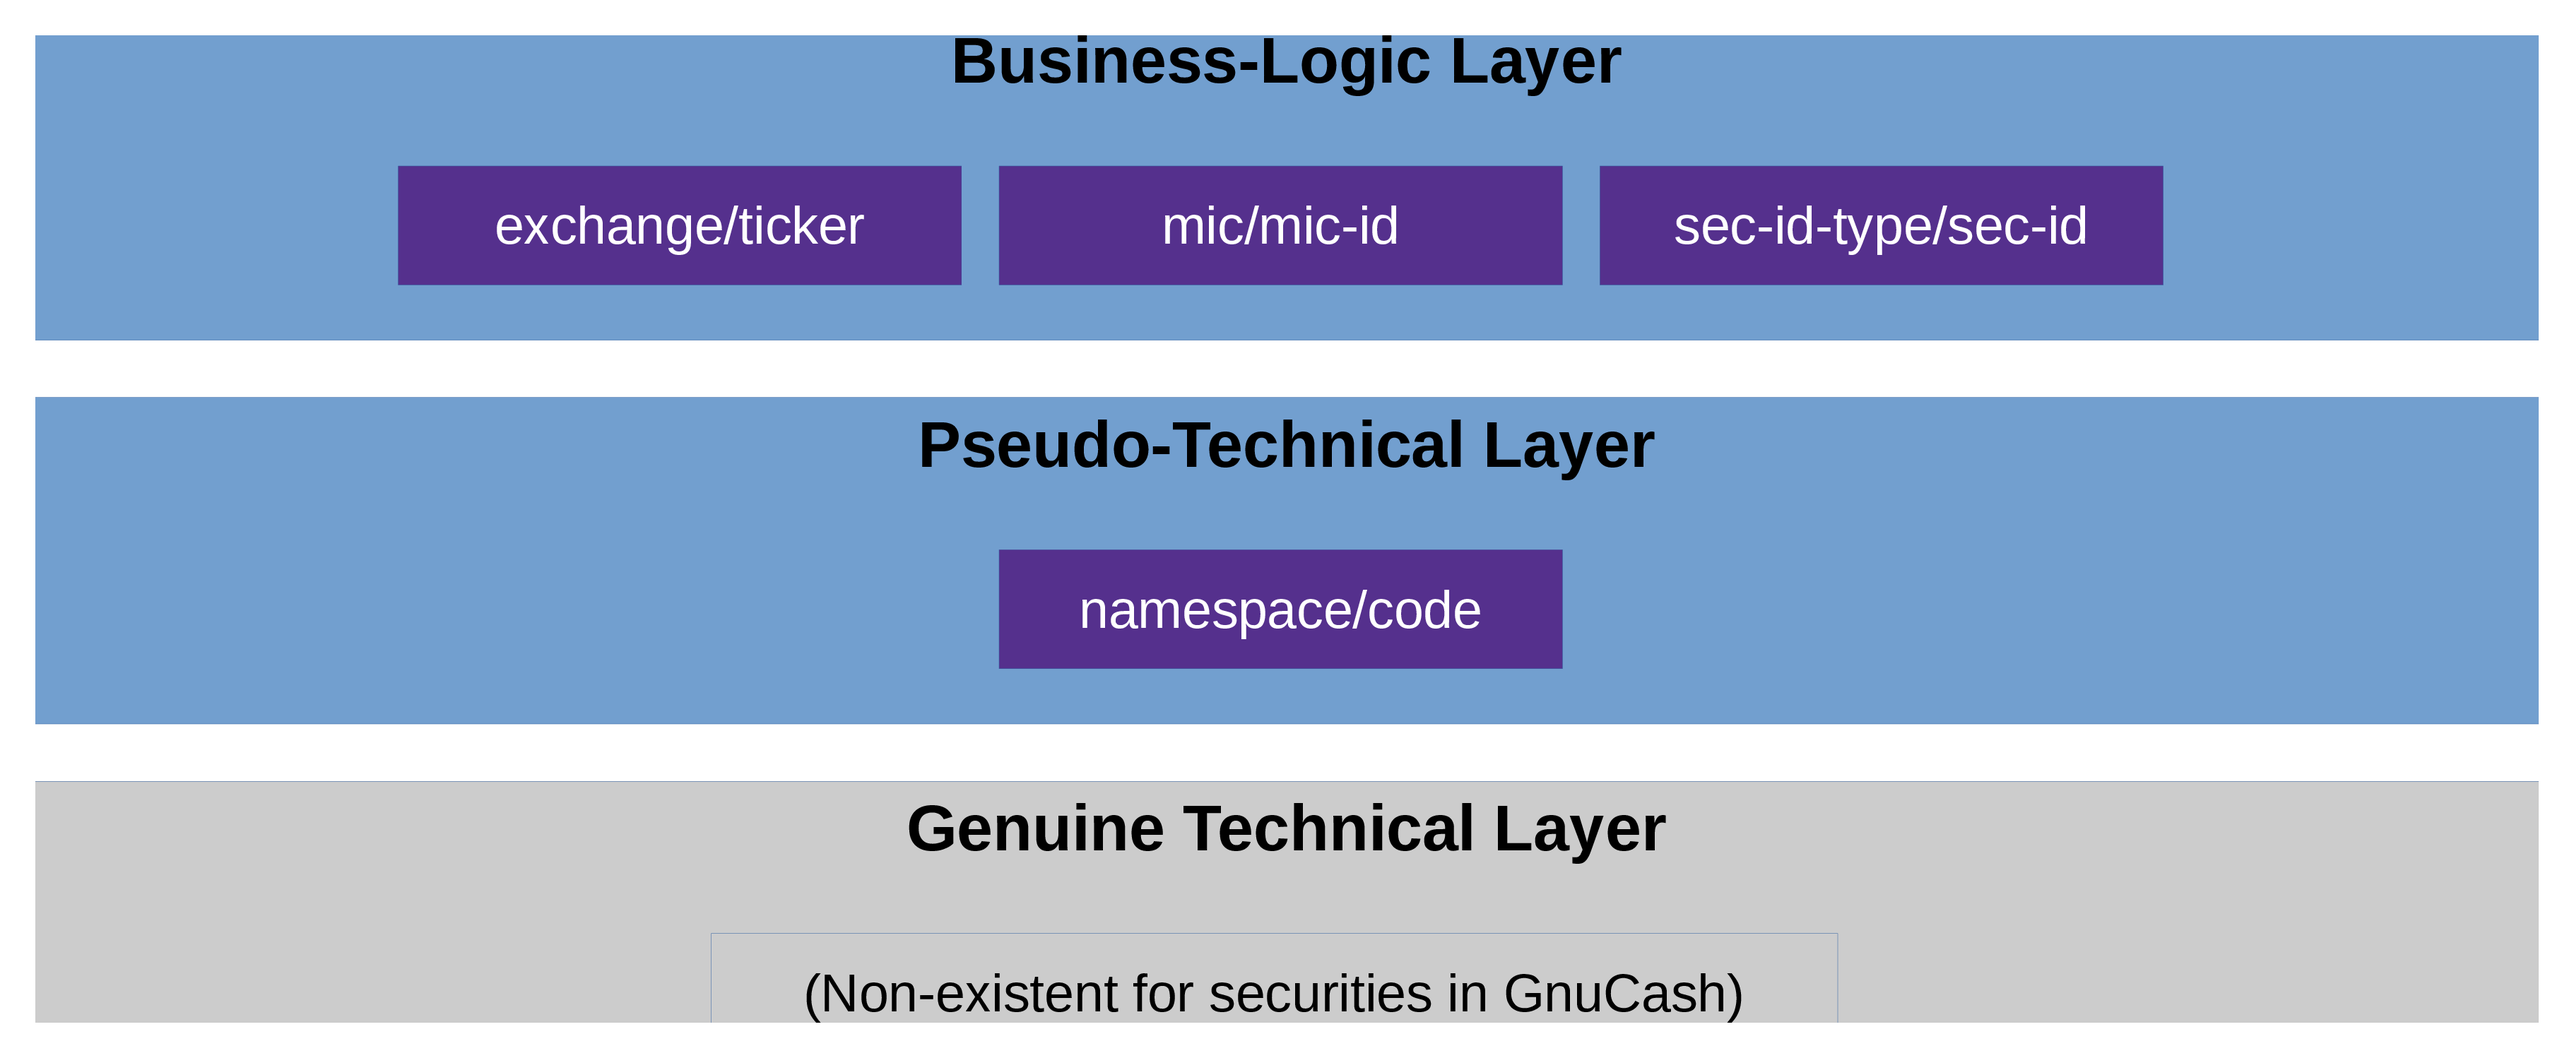
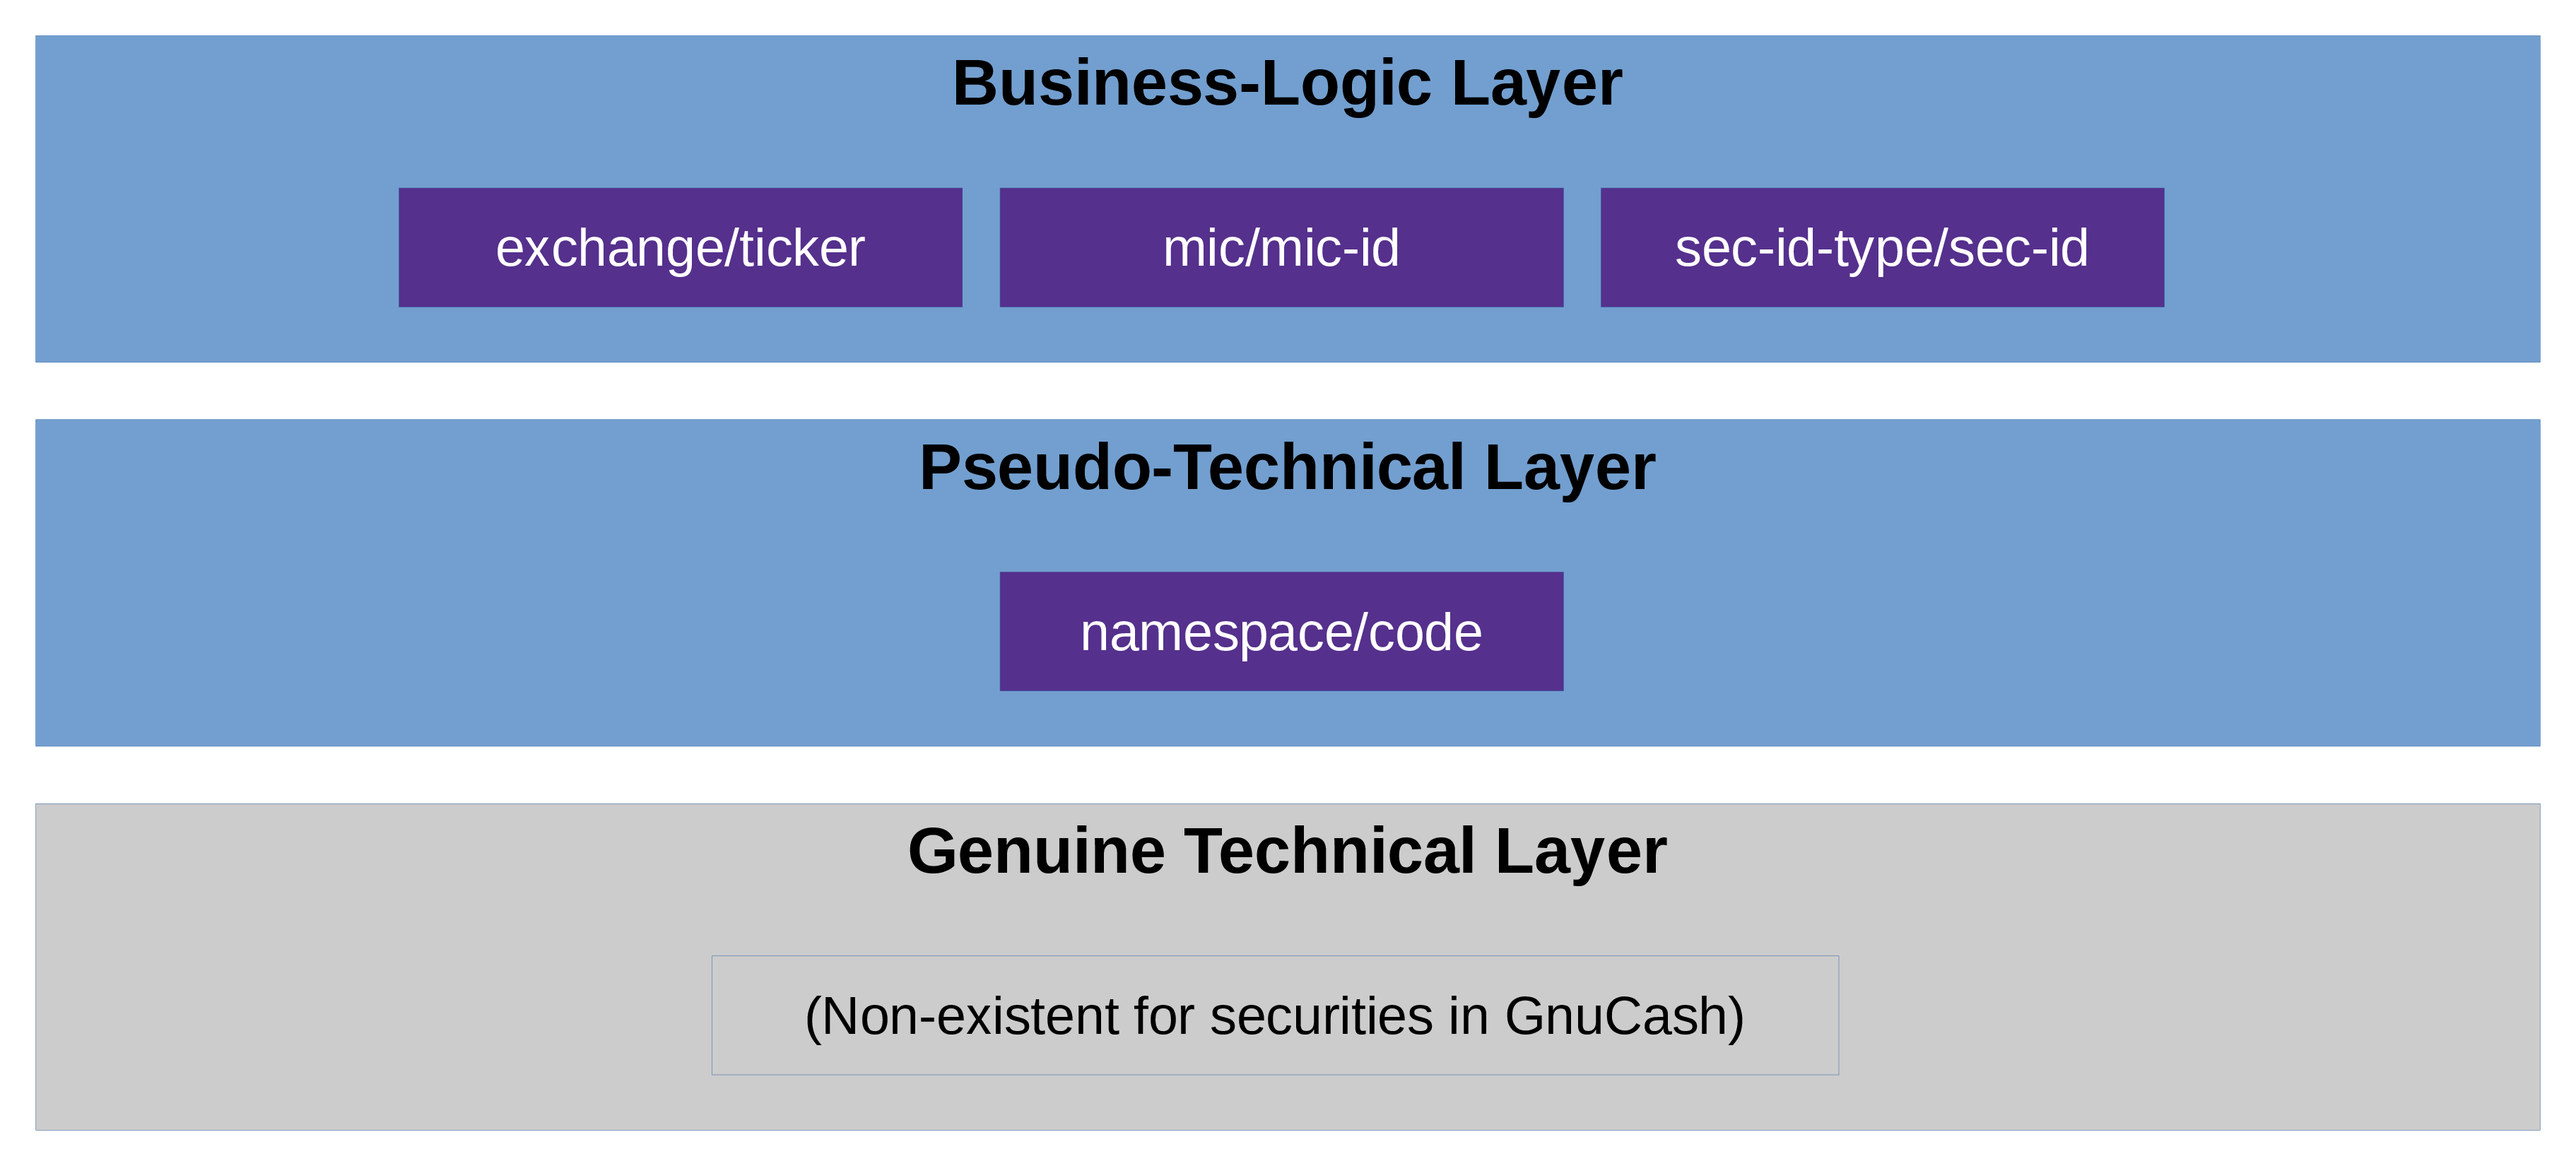
Update doc

diff --git a/doc/xsec/id-layers.md b/doc/xsec/id-layers.md
@@ -77,9 +77,10 @@ ID looks something like these:
 * `EURONEXT:SAP`
 * `ISIN:DE000BASF111AP`
 
-Just by glancing at these, you can see that they are essentially business-logic IDs 
-maskerading as technical ones; they do mean something (i.e., they have semantics) and 
-can thus very well be interpreted and understood.
+Just by glancing at these, you can see that 
+they are essentially business-logic IDs maskerading as technical ones;
+they both do mean something (i.e., they have semantics) and can thus very well be interpreted 
+and understood.
 
 It is important to understand this (non-)difference between technical and business-logic IDs in
 GnuCash 

diff --git a/doc/developer/select-securities.md b/doc/developer/select-securities.md
@@ -64,7 +64,7 @@ In short: *ignore its semantics*!
 ### Getting Security IDs
 
 In short: The lib does not provide methods which you can get
-*IDs* (yet). Instead, it provides methods which you can get 
+*IDs* with (yet). Instead, it provides methods which you can get 
 *objects* with, which in turn, obviously, have an ID.
 
 The class 
